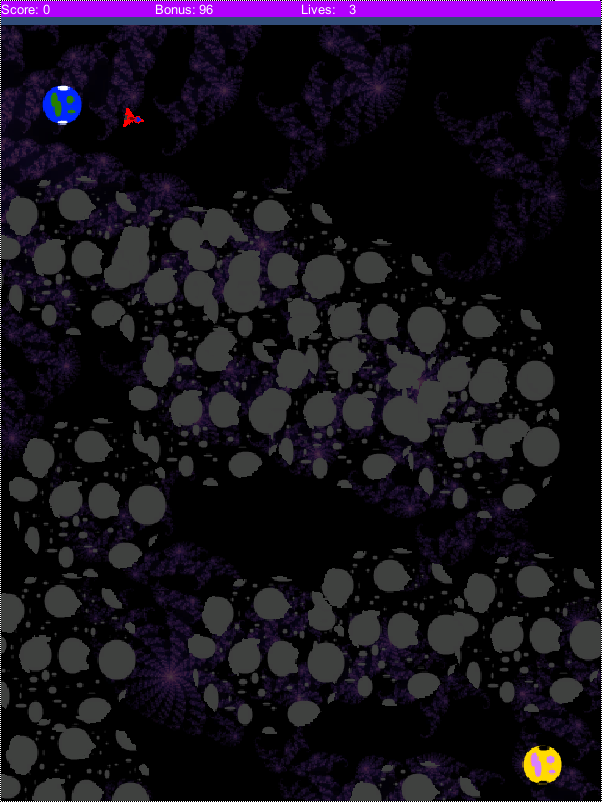
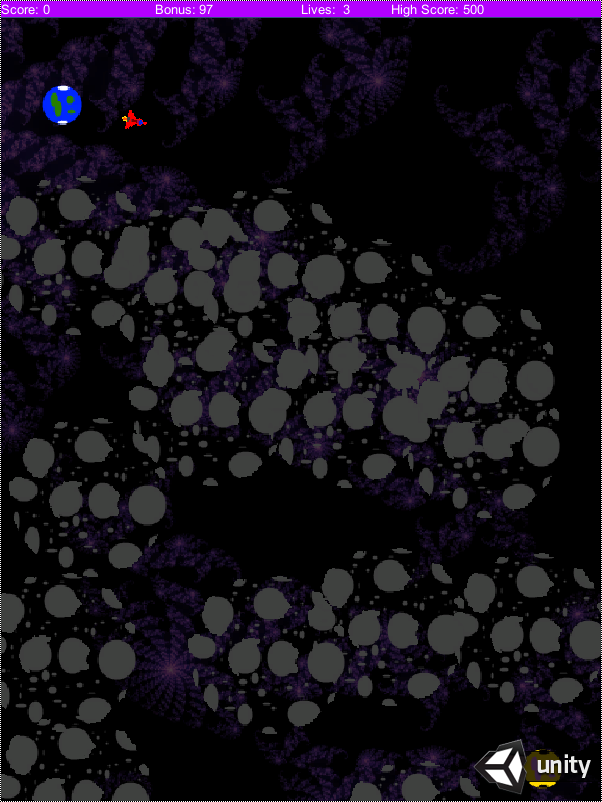
Changed wall behaviour

diff --git a/Assets/Scripts/Player.cs b/Assets/Scripts/Player.cs
@@ -9,7 +9,8 @@ public class Player : MonoBehaviour {
 	public float maxVelocity = 2.0f;
 	private float currentVelocity = 0.0f;
 	public float acceleration = .1f;
-	public float borderSpeedPenalty = .1f;
+	public float borderSpeedPenalty = 50f;
+	public float wallBounce = .1f; // how far off the walls to bounce when you hit them
 
 	public float explosionSlowdown = 48f;
 	public float goalSlowdown = 40f;
@@ -53,22 +54,22 @@ public class Player : MonoBehaviour {
 		transform.Rotate(Vector3.forward, -rotation);
 
 		if (transform.position.x < gameConstants.gameBoundL){
-			transform.position = new Vector3(gameConstants.gameBoundL, transform.position.y);
+			transform.position = new Vector3(gameConstants.gameBoundL + wallBounce, transform.position.y);
 			currentVelocity *= borderSpeedPenalty * Time.fixedDeltaTime;
 		}
 
 		if (transform.position.x > gameConstants.gameBoundR){
-			transform.position = new Vector3(gameConstants.gameBoundR, transform.position.y);
+			transform.position = new Vector3(gameConstants.gameBoundR - wallBounce, transform.position.y);
 			currentVelocity *= borderSpeedPenalty * Time.fixedDeltaTime;
 		}
 
 		if (transform.position.y > gameConstants.gameBoundT){
-			transform.position = new Vector3(transform.position.x, gameConstants.gameBoundT);
+			transform.position = new Vector3(transform.position.x, gameConstants.gameBoundT - wallBounce);
 			currentVelocity *= borderSpeedPenalty * Time.fixedDeltaTime;
 		}
 
 		if (transform.position.y < gameConstants.gameBoundB){
-			transform.position = new Vector3(transform.position.x, gameConstants.gameBoundB);
+			transform.position = new Vector3(transform.position.x, gameConstants.gameBoundB + wallBounce);
 			currentVelocity *= borderSpeedPenalty * Time.fixedDeltaTime;
 		}
 	}
